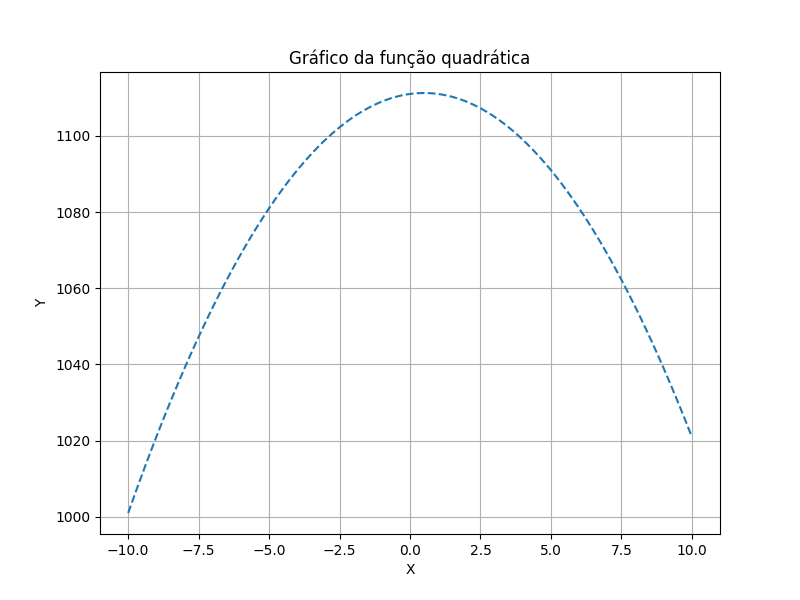
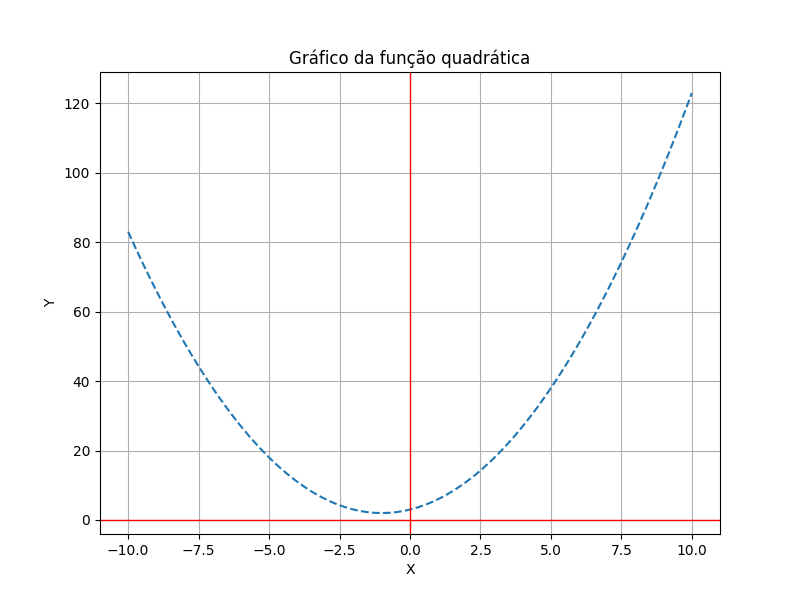
baixar grafico e mairo responsividade

diff --git a/templates/index.html b/templates/index.html
@@ -22,7 +22,7 @@
     </header>
 
     <main>
-        <form method="post" id="meuFormulario" class="row">
+        <form method="post" id="meuFormulario" class="row justify-content-center">
             <div class="col-sm-2">
                 <div class="mb-2">
                     {{ number_input.num_a.label }}
@@ -43,16 +43,25 @@
             </div>
             <div class="col-sm-2">
                 <br>
-                <hr>
                 <div class="mb-2">
                     {{ number_input.button_submit(class="btn btn-primary") }}
                 </div>
             </div>
         </form>
         
-        <div>
-            <img src="{{ url_for('static', filename='img/grafico.png') }}" alt="Gráfico da função quadrática">
+        <form action="{{ url_for('download_image') }}" method="get" class="justify-content-center">
+            <div class="col-sm-2">
+                <div class="mb-2 ju">
+                    <button type="submit" class="btn btn-primary">Baixar Imagem</button>
+                </div>
+            </div>
+        </form>
+        
+        
+        <div class="img d-flex justify-content-center ">
+            <img src="{{ url_for('static', filename='img/grafico.png') }}" alt="Gráfico da função quadrática" class="img-fluid">
         </div>
+        
         
         
         

diff --git a/static/css/style.css b/static/css/style.css
@@ -8,7 +8,7 @@ body {
     padding: 0;
 }
 
-h3{
+h3 {
     font-family: Oswald;
 }
 
@@ -16,6 +16,7 @@ header {
     background-color: #333;
     color: #fff;
     padding: 20px;
+    width: 100vw;
 }
 
 header h1 {
@@ -45,6 +46,7 @@ footer {
     color: #fff;
     padding: 20px;
     text-align: center;
+    width: 100vw;
 }
 
 /* Responsividade */
@@ -62,4 +64,12 @@ footer {
         margin: 0;
         padding: 10px 0;
     }
+}
+
+/* Estilos da imagem */
+img {
+    margin: auto; /* Centraliza horizontalmente */
+    display: block; /* Remove margens verticais adicionais */
+    max-width: 100%; /* Garante que a imagem não ultrapasse a largura do contêiner */
+    height: auto; /* Mantém a proporção da imagem */
 }

diff --git a/app.py b/app.py
@@ -1,4 +1,4 @@
-from flask import Flask, render_template, request, jsonify
+from flask import Flask, render_template, request, jsonify, send_file
 import numpy as np
 import matplotlib.pyplot as plt
 import matplotlib
@@ -36,18 +36,30 @@ def index():
         return render_template('index.html', number_input=number_input)
     return render_template('index.html', number_input=number_input)
 
-    
+@app.route('/download-image')
+@app.route('/download-image')
+def download_image():
+    # Caminho para a imagem que você deseja baixar
+    image_path = 'static/img/grafico.png'
+    # Nome do arquivo que será baixado pelo usuário
+    filename = 'grafico.png'
+    # Retorna a imagem para o cliente fazer o download
+    return send_file(image_path, as_attachment=True)
 
 def gerar_grafico(a, b , c):
     x_vals = np.linspace(-10, 10, 100)
     y_vals = a*x_vals**2 + b*x_vals + c
-
     fig, ax = plt.subplots(figsize=(8, 6))
     ax.plot(x_vals, y_vals, label='Função Quadrática', linestyle='--')
     ax.set_title('Gráfico da função quadrática')
     plt.xlabel('X')
     plt.ylabel('Y')
+    plt.axhline(0, color='r', linewidth=1)
+    plt.axvline(0, color='r', linewidth=1)
+
     plt.grid(True)
+    #ax.set(xlim=(-10, 10), ylim=(-10, 10))
+
     
     # Verifica se o diretório 'static/img' existe e cria-o se não existir
     if not os.path.exists('static/img'):

diff --git a/forms.py b/forms.py
@@ -7,4 +7,4 @@ class NumberInput(FlaskForm):
     num_b = FloatField('Insira o valor de B', validators=[DataRequired()])
     num_c = FloatField('Insira o valor de C', validators=[DataRequired()])
 
-    button_submit = SubmitField('teste')
+    button_submit = SubmitField('Gerar Gráfico')
